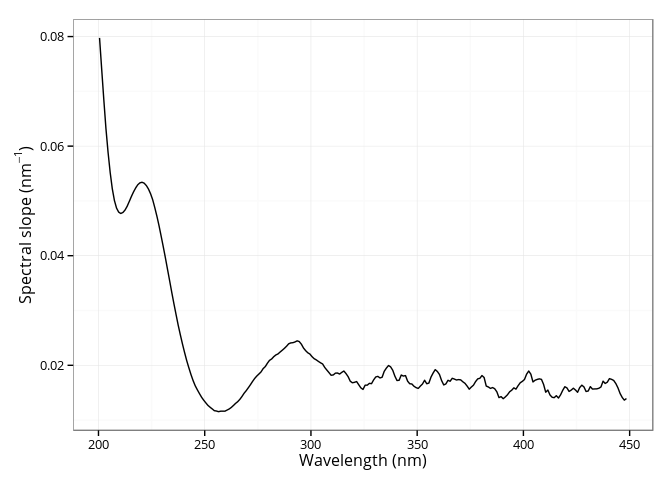
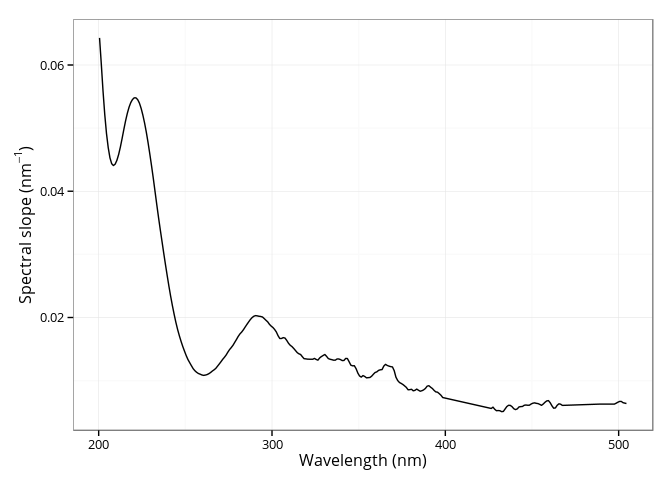
modified README

diff --git a/README.md b/README.md
@@ -36,19 +36,21 @@ a(\lambda) = a(\lambda0)e^{-S(\lambda - \lambda0)} + K
 
 ``` r
 library(cdom)
+library(ggplot2)
+
 data("spectra")
 
 fit <- fit_exponential(wl = spectra$wavelength,
-                       spectra = spectra$absorbance,
+                       absorbance = spectra$spc3,
                        wl0 = 350,
                        startwl = 190,
                        endwl = 900)
 
-ggplot(spectra, aes(x = wavelength, y = absorbance)) +
+ggplot(spectra, aes(x = wavelength, y = spc3)) +
   geom_point() +
   geom_line(aes(y = predict(fit)), col = "red") +
   xlab("Wavelength (nm)") +
-  ylab(expression(paste("Absorbance (", m ^ {-1}, ")")))
+  ylab(expression(paste("Absorption (", m ^ {-1}, ")")))
 ```
 
 ![](README-exponential-1.png)
@@ -62,8 +64,8 @@ The `slope_ratio()` function calculates the slope ratio (S<sub>R</sub>) which is
 library(cdom)
 data("spectra")
 
-slope_ratio(spectra$wavelength, spectra$absorbance)
-#> [1] 0.7519547
+slope_ratio(spectra$wavelength, spectra$spc1)
+#> [1] 1.325082
 ```
 
 The spectral curve by Loiselle et al. (2009).
@@ -75,7 +77,10 @@ The `spectral_curve()` function generates the spectral curve using the slope of 
 library(cdom)
 data("spectra")
 
-res <-  spectral_curve(spectra$wavelength, spectra$absorbance)
+res <-  spectral_curve(wl = spectra$wavelength, 
+                       absorbance = spectra$spc10,
+                       interval = 21,
+                       r2threshold = 0.9)
 
 ggplot(res, aes(x = wl, y = s)) +
   geom_line() +
